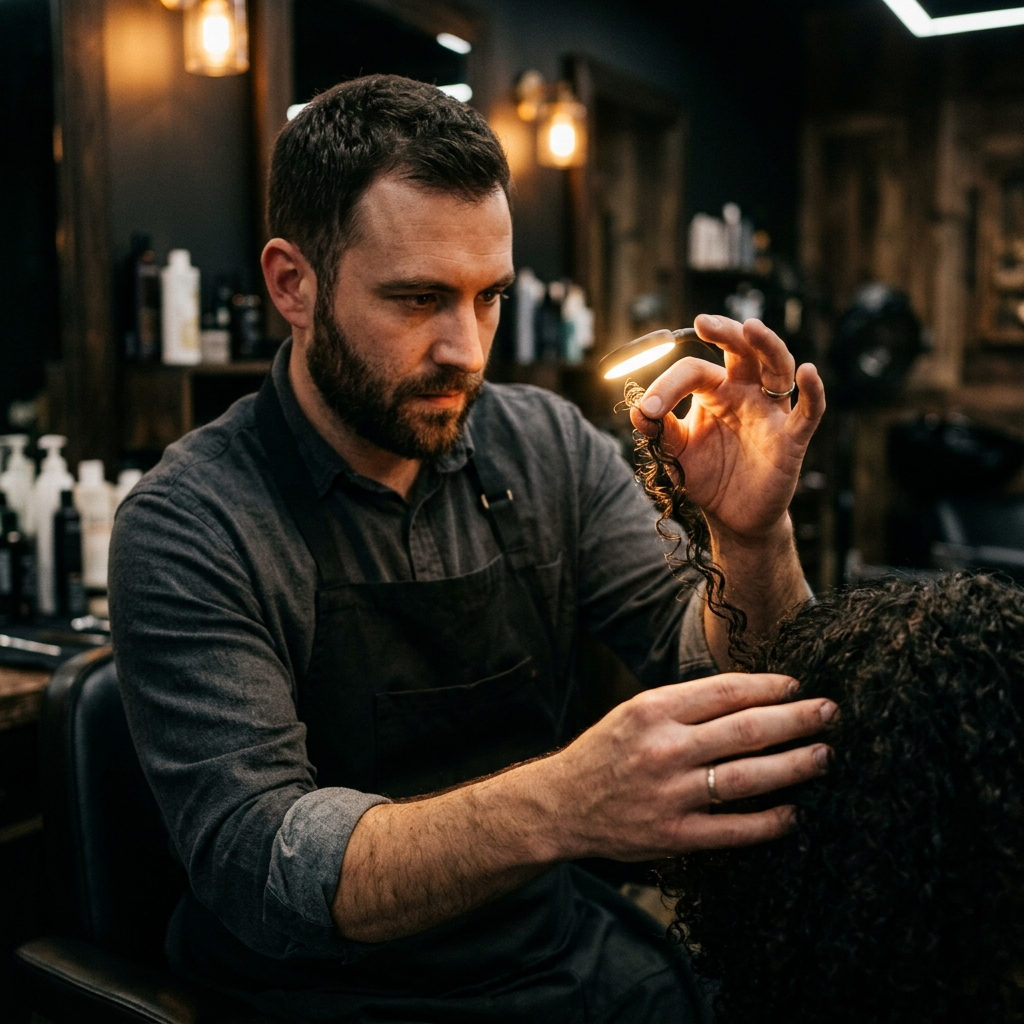
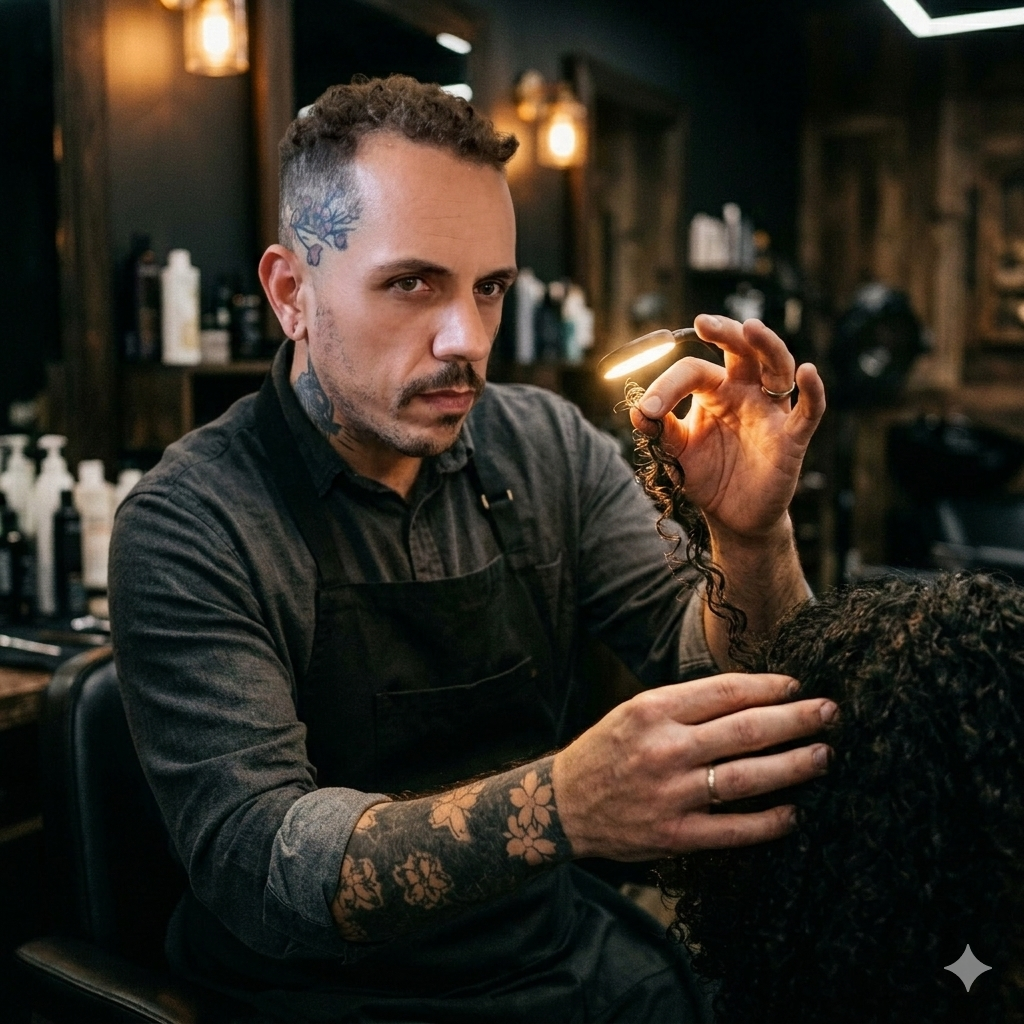
feat: integrar api do google places para avaliacoes em tempo real

diff --git a/src/components/Reviews.jsx b/src/components/Reviews.jsx
@@ -1,32 +1,56 @@
-import React from 'react';
+import React, { useState, useEffect } from 'react';
 import { Star } from 'lucide-react';
 import './Reviews.css';
 
-const reviewsData = [
+const fallbackReviews = [
   {
-    id: 1,
-    name: "Fernanda Baiao",
+    author_name: "Fernanda Baiao",
     text: "O Jon é fantástico! Super educado, atencioso, tem uma escuta super ativa, me entendeu, entendeu meu cabelo e me ensinou a finalizar de uma forma muito mais simples do que eu jamais imaginei! Amei o corte, valorizou demais meus cachos!",
     rating: 5,
-    role: "Avaliação no Google"
+    relative_time_description: "Avaliação no Google"
   },
   {
-    id: 2,
-    name: "Ana Beatriz",
+    author_name: "Ana Beatriz",
     text: "Eu amei o resultado, o Jon foi super gentil do início ao fim, ele é uma pessoa muito legal de conversar. Além disso, foi explicando o que estava fazendo e a técnica que usava. Me senti muito segura e super recomendo!!!",
     rating: 5,
-    role: "Avaliação no Google"
+    relative_time_description: "Avaliação no Google"
   },
   {
-    id: 3,
-    name: "Cristinna da Silva",
+    author_name: "Cristinna da Silva",
     text: "Incrível! Excelente profissional, atencioso! Fiz corte e coloração, e o resultado foi melhor que o esperado! Jon é muuuito talentoso! Recomendo, com toda certeza!",
     rating: 5,
-    role: "Avaliação no Google"
+    relative_time_description: "Avaliação no Google"
   }
 ];
 
 const Reviews = () => {
+  const [reviews, setReviews] = useState([]);
+  const [loading, setLoading] = useState(true);
+
+  useEffect(() => {
+    const fetchReviews = async () => {
+      try {
+        const response = await fetch('/api/reviews');
+        if (!response.ok) {
+          throw new Error('Falha na requisição da API');
+        }
+        const data = await response.json();
+        if (data.reviews && data.reviews.length > 0) {
+          setReviews(data.reviews);
+        } else {
+          setReviews(fallbackReviews);
+        }
+      } catch (err) {
+        console.error('Erro ao buscar avaliações em tempo real:', err);
+        setReviews(fallbackReviews);
+      } finally {
+        setLoading(false);
+      }
+    };
+
+    fetchReviews();
+  }, []);
+
   return (
     <section id="depoimentos" className="reviews-section section-padding">
       <div className="container">
@@ -35,30 +59,36 @@ const Reviews = () => {
           <p className="paragraph-lg">O que dizem sobre a leitura de fio e o método Jon.</p>
         </div>
         
-        <div className="reviews-grid">
-          {reviewsData.map((review, index) => (
-            <div key={review.id} className={`review-card reveal stagger-${index + 1}`}>
-              <div className="review-stars">
-                {[...Array(review.rating)].map((_, i) => (
-                  <Star key={i} size={16} fill="var(--color-accent)" color="var(--color-accent)" />
-                ))}
-              </div>
-              <p className="review-text">"{review.text}"</p>
-              <div className="review-author">
-                <div className="author-info">
-                  <h4>{review.name}</h4>
-                  <span>{review.role}</span>
+        {loading ? (
+          <div className="text-center" style={{ padding: '2rem 0', color: 'var(--text-muted)' }}>
+            <p>Carregando avaliações...</p>
+          </div>
+        ) : (
+          <div className="reviews-grid">
+            {reviews.slice(0, 3).map((review, index) => (
+              <div key={index} className={`review-card reveal stagger-${index + 1}`}>
+                <div className="review-stars">
+                  {[...Array(review.rating || 5)].map((_, i) => (
+                    <Star key={i} size={16} fill="var(--color-accent)" color="var(--color-accent)" />
+                  ))}
+                </div>
+                <p className="review-text">"{review.text}"</p>
+                <div className="review-author">
+                  <div className="author-info">
+                    <h4>{review.author_name}</h4>
+                    <span>{review.relative_time_description || "Avaliação no Google"}</span>
+                  </div>
                 </div>
               </div>
-            </div>
-          ))}
-        </div>
+            ))}
+          </div>
+        )}
 
         <div className="reviews-cta text-center reveal">
           <p style={{ fontWeight: 800 }}>Já passou pela experiência de um corte com leitura de fio?</p>
           <div style={{ display: 'flex', gap: '1rem', justifyContent: 'center', flexWrap: 'wrap', marginTop: '1.5rem' }}>
             <a 
-              href="https://www.google.com/maps/search/?api=1&query=O+Jon que Cortou+Rua+Francisco+Ovídio+184+Belo+Horizonte" 
+              href="https://www.google.com/maps/search/?api=1&query=O+Jon+que+Cortou+Rua+Francisco+Ovídio+184+Belo+Horizonte" 
               target="_blank" 
               rel="noreferrer" 
               className="btn btn-outline"

diff --git a/api/reviews.js b/api/reviews.js
@@ -1,0 +1,47 @@
+export default async function handler(req, res) {
+  // CORS configuration
+  res.setHeader('Access-Control-Allow-Credentials', true);
+  res.setHeader('Access-Control-Allow-Origin', '*');
+  res.setHeader('Access-Control-Allow-Methods', 'GET,OPTIONS');
+  res.setHeader(
+    'Access-Control-Allow-Headers',
+    'X-CSRF-Token, X-Requested-With, Accept, Accept-Version, Content-Length, Content-MD5, Content-Type, Date, X-Api-Version'
+  );
+
+  if (req.method === 'OPTIONS') {
+    res.status(200).end();
+    return;
+  }
+
+  try {
+    const API_KEY = process.env.GOOGLE_PLACES_API_KEY;
+    const PLACE_ID = process.env.GOOGLE_PLACE_ID; 
+
+    if (!API_KEY || !PLACE_ID) {
+      return res.status(500).json({ error: 'Configuração da API ausente (GOOGLE_PLACES_API_KEY ou GOOGLE_PLACE_ID)' });
+    }
+
+    const url = `https://maps.googleapis.com/maps/api/place/details/json?place_id=${PLACE_ID}&fields=reviews,rating,user_ratings_total&language=pt-BR&key=${API_KEY}`;
+    
+    const response = await fetch(url);
+    const data = await response.json();
+
+    if (data.status === 'OK' && data.result.reviews) {
+      // Filtrar apenas avaliações com 4 ou 5 estrelas e que tenham texto
+      const goodReviews = data.result.reviews
+        .filter(review => review.rating >= 4 && review.text && review.text.length > 10)
+        .sort((a, b) => b.time - a.time); // mais recentes primeiro
+
+      return res.status(200).json({
+        reviews: goodReviews.slice(0, 6), // Retornar as melhores
+        rating: data.result.rating,
+        total: data.result.user_ratings_total
+      });
+    } else {
+      return res.status(500).json({ error: 'Falha ao buscar avaliações', details: data });
+    }
+  } catch (error) {
+    console.error('Erro na API de Reviews:', error);
+    return res.status(500).json({ error: 'Erro interno no servidor' });
+  }
+}
